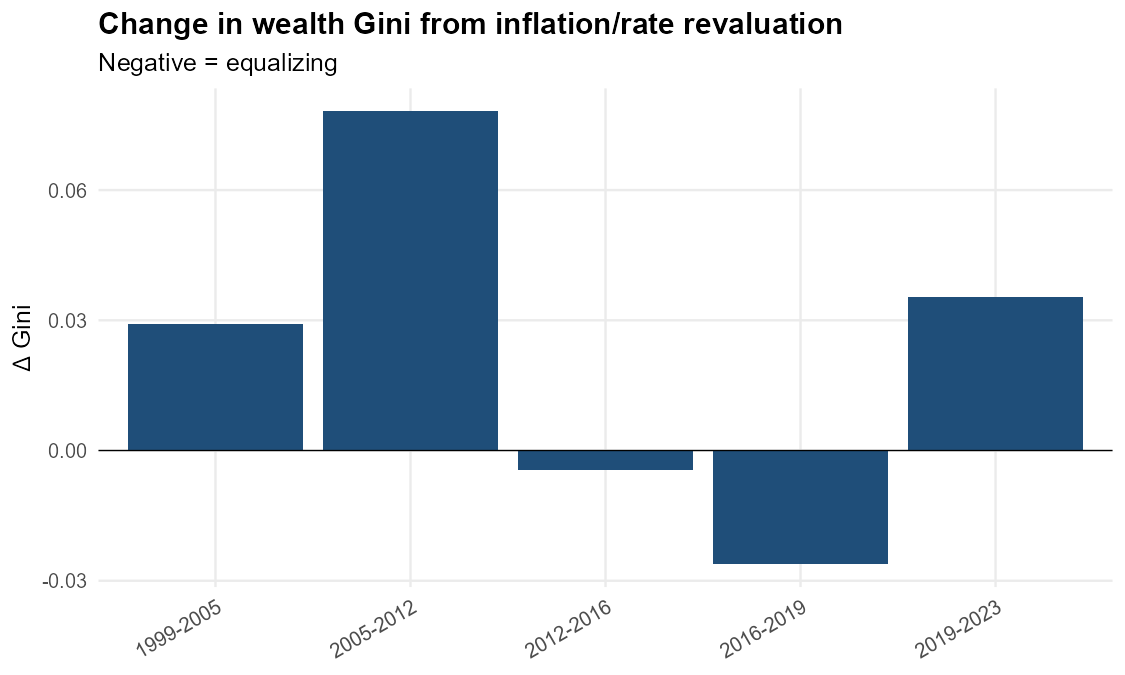
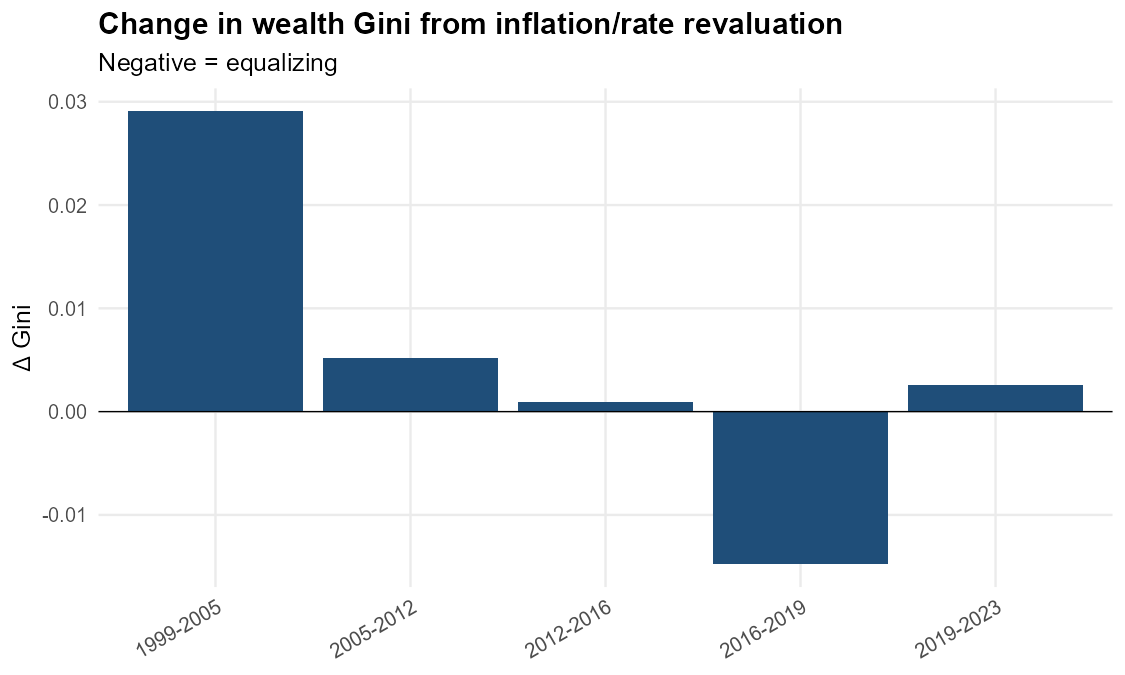
Fix consol revaluation when real rates are floored.
2012–2016 equity/business gains were zeroed because both real GoC10 rates hit the 0.5% floor; use a duration fallback when consol pricing would erase observed Δr.

diff --git a/docs/paper_notes.md b/docs/paper_notes.md
@@ -48,6 +48,10 @@ Patterns:
 - **2016–2019:** real rates *rose* (negative equity revaluation) while inflation was mild → NIG turns negative for several quintiles — a useful contrast to Wolff’s long US disinflation/rate-decline era.
 - Debt devaluation is the most robust equalizing / middle-class channel; equity/business terms dominate means at the top.
 
+### Accounting note: real-rate floor and 2012–2016
+
+Near-zero 2012–2016 equity/business revaluation was a **bug**, not an economic feature. Raw real GoC10 rates were `real0≈0.33%` and `real1≈−0.32%`; both were floored to 0.5% before the consol ratio `V*(r0/r1−1)`, so STK/BUS contributions were exactly zero. Mild cumulative inflation (~5.9%) and a small nominal yield move (Δgoc10≈−62bp) do legitimately shrink IT, debt/liq, and bond terms, but they do not justify wiping the equity channel. Fix (`consol_reval` in `code/utils/accounting.R`): use the consol ratio only when both real rates exceed the 0.5% floor; otherwise apply the duration approximation so the observed Δr is preserved. Same helper is used in `04`, `05`, and `08`. Side effect: 2005–2012 and 2019–2023 equity gains shrink vs the old path, which had inflated consol ratios by flooring only the low end-rate.
+
 ## Inequality module (WP 29392-style)
 
 From `inequality_revaluation_by_period.csv`:
